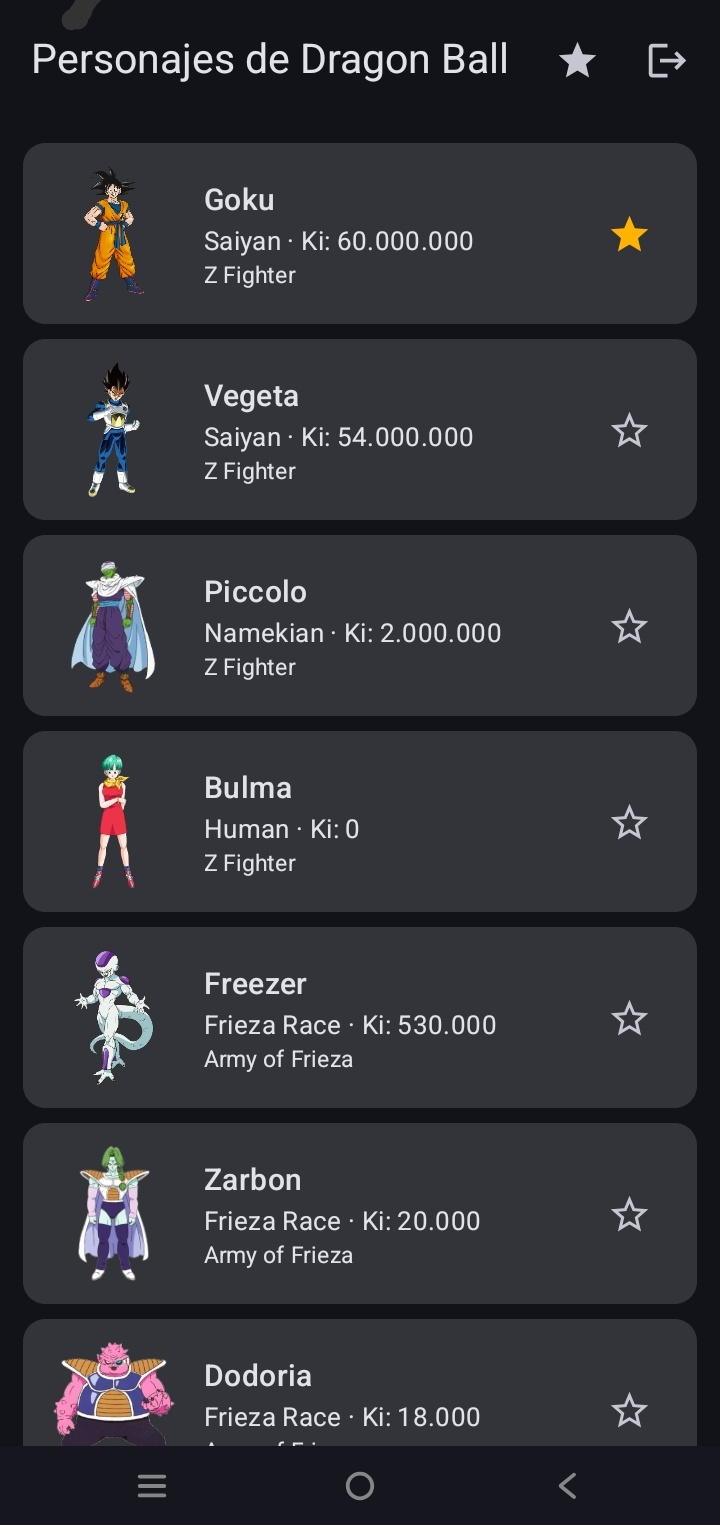
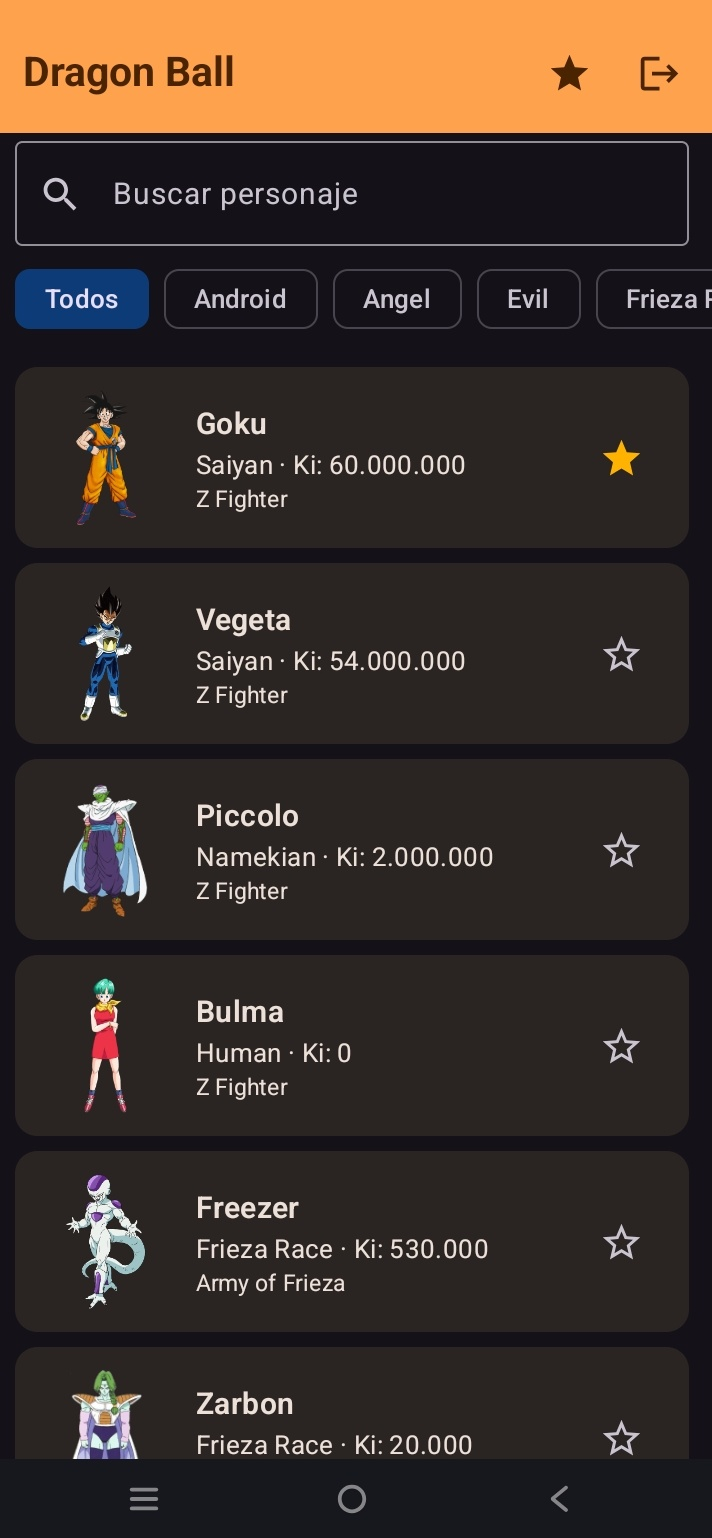
docs: agrega PROMPTS.md con las consultas a la IA y actualiza el README con las mejoras de la Fase 2

diff --git a/PROMPTS.md b/PROMPTS.md
@@ -1,0 +1,71 @@
+# PROMPTS.md
+
+Registro de las consultas hechas a la IA durante la **Fase 2** del laboratorio (rama `mejora-ia`).
+
+- **Proyecto:** Dragon Ball – Catálogo de personajes
+- **Integrante:** José Rojas Condor
+- **Herramienta usada:** Claude (Anthropic)
+
+---
+
+## Consulta 1
+
+- **Fecha:** 08/11/2026
+- **Herramienta:** Claude
+- **Prompt:** "Te paso capturas de todas las pantallas de mi app. En el login casi no se nota lo que escribo, la letra sale muy clara. ¿Qué otros problemas visuales ves?"
+- **Qué respondió (resumen):** Explicó que el login no tenía un `Surface`, entonces con el celular en modo oscuro el texto salía claro sobre el fondo blanco de la ventana. Además encontró que el título de la lista se partía en dos líneas cuando el admin tiene tres íconos y que las tarjetas del panel Admin tenían distinta altura.
+- **Qué usamos / qué cambiamos y por qué:** Envolví el login en un `Surface` para que use el fondo del tema, acorté el título a "Dragon Ball" y usé `IntrinsicSize.Min` para que las dos tarjetas del panel tengan la misma altura. No había notado los dos últimos problemas porque solo probaba con el usuario normal.
+- **Qué aprendimos:** Que en Compose el texto toma su color del tema, pero si la pantalla no pinta su propio fondo se ve el de la ventana. Por eso conviene que cada pantalla tenga un `Scaffold` o un `Surface`.
+
+## Consulta 2
+
+- **Fecha:** 08/11/2026
+- **Herramienta:** Claude
+- **Prompt:** "En la barra de arriba del celular sale una mancha gris cuando llega la notificación, ¿por qué pasa?"
+- **Qué respondió (resumen):** El ícono pequeño de una notificación tiene que ser de un solo color y con fondo transparente. Yo estaba usando el ícono de la app, que tiene colores, y Android lo pinta como una mancha. Propuso crear un vector de una campana.
+- **Qué usamos / qué cambiamos y por qué:** Agregué `res/drawable/ic_notificacion.xml` (una campana blanca) y lo puse en `setSmallIcon` del `NotificadorAndroid`.
+- **Qué aprendimos:** Que Android solo usa la forma (el canal alfa) del ícono de la barra de estado, por eso no sirve cualquier imagen.
+
+## Consulta 3
+
+- **Fecha:** 09/11/2026
+- **Herramienta:** Claude
+- **Prompt:** "Quiero agregar un buscador por nombre en la lista sin romper que Room sea la fuente de verdad. ¿Dónde debería ir la lógica?"
+- **Qué respondió (resumen):** Recomendó guardar el texto de búsqueda en el `ListaViewModel` como un `StateFlow` y filtrar ahí la lista que llega de Room, en vez de hacer una consulta nueva o filtrar en la pantalla. También sugirió no filtrar mientras el estado es Cargando o Error para no tapar esos mensajes.
+- **Qué usamos / qué cambiamos y por qué:** Agregué `busqueda`, `buscar()` y `mostrarFiltrada()` al ViewModel y un `OutlinedTextField` con lupa y botón para borrar en la pantalla. La pantalla solo llama a `viewModel.buscar(texto)`.
+- **Qué aprendimos:** Que si el texto vive en el ViewModel no se pierde al girar la pantalla, y que el buscador funciona sin internet porque busca en lo que ya está guardado.
+
+## Consulta 4
+
+- **Fecha:** 09/11/2026
+- **Herramienta:** Claude
+- **Prompt:** "Ahora quiero filtrar por raza con chips y que se pueda combinar con el buscador."
+- **Qué respondió (resumen):** Propuso sacar la lista de razas de los mismos personajes guardados (sin repetir y ordenadas), guardar la raza elegida en el ViewModel y aplicar los dos filtros juntos en `mostrarFiltrada()`. Para la pantalla sugirió una fila de `FilterChip` dentro de un `LazyRow`.
+- **Qué usamos / qué cambiamos y por qué:** Lo implementé así y agregué el chip "Todos" para quitar el filtro. Si el filtro no encuentra nada, la pantalla muestra "No se encontraron personajes con ese filtro".
+- **Qué aprendimos:** Que sacar las razas de los datos es mejor que escribirlas a mano, porque si la API agrega una raza nueva aparece sola.
+
+## Consulta 5
+
+- **Fecha:** 09/11/2026
+- **Herramienta:** Claude
+- **Prompt:** "¿Cómo hago las 3 pruebas unitarias del ListaViewModel con un repositorio falso como pide el laboratorio?"
+- **Qué respondió (resumen):** Explicó que como `ItemRepository` y `Notificador` son interfaces, se pueden reemplazar por clases falsas que no usan internet ni el celular. Propuso probar los tres caminos de `refrescar()`: con internet, sin internet sin datos y sin internet con datos guardados. También indicó que hay que cambiar `Dispatchers.Main` por un `UnconfinedTestDispatcher`, porque en las pruebas no existe el hilo principal de Android.
+- **Qué usamos / qué cambiamos y por qué:** Creé `RepositorioFalso`, `NotificadorFalso` y `ListaViewModelTest` con las tres pruebas. Las ejecuté con `gradlew testDebugUnitTest` y pasaron las tres (100%).
+- **Qué aprendimos:** Recién entendí para qué sirve que el Repository sea una interface: el ViewModel no sabe si le pasan el real o el falso, y así se puede probar sin depender de internet.
+
+## Consulta 6
+
+- **Fecha:** 09/11/2026
+- **Herramienta:** Claude
+- **Prompt:** "Quiero darle un mejor estilo visual a la app, con colores de Dragon Ball y los títulos más marcados."
+- **Qué respondió (resumen):** Notó que el tema de la plantilla usaba colores dinámicos (`dynamicColor`), que toman los colores del fondo de pantalla del celular. Propuso quitarlos y definir una paleta propia en `Color.kt` y `Theme.kt`, poner los títulos en negrita en `Type.kt` y darle a la barra superior el color principal.
+- **Qué usamos / qué cambiamos y por qué:** Definí una paleta naranja, azul y amarillo para modo claro y oscuro, puse los títulos en negrita y creé `coloresBarra()` en `components/BarraSuperior.kt` para no repetir los colores en las cuatro pantallas.
+- **Qué aprendimos:** Que cambiando solo el tema cambia toda la app, porque los componentes de Material 3 toman los colores de `MaterialTheme`. No tuve que tocar cada botón.
+
+---
+
+## Reflexión
+
+La IA me ayudó sobre todo a encontrar problemas que yo no veía, como el login en modo oscuro o el ícono de la notificación, y a entender el porqué de cada cambio. No copié las respuestas sin más: probé cada cambio en mi celular antes de hacer el commit y en algunos casos ajusté cosas, como el texto de los mensajes o qué filtrar.
+
+Lo que más me sirvió fue la parte de las pruebas, porque me hizo entender en la práctica por qué el laboratorio pide que el Repository y el Notificador sean interfaces. También aprendí que hay que revisar lo que propone la IA: por ejemplo, el buscador al principio tapaba el mensaje de error y hubo que agregar una condición para que solo filtre cuando ya hay una lista.

diff --git a/README.md b/README.md
@@ -40,6 +40,16 @@ La lista viene envuelta en `{ "items": [...] }` y el detalle agrega el planeta d
 - **Notificación local** «Se guardaron N elementos» al terminar de sincronizar, con canal y permiso `POST_NOTIFICATIONS`. Al tocarla se abre la app.
 - **Sesión** que se mantiene al reabrir la app y botón Cerrar sesión.
 
+### Mejoras de la Fase 2 (rama `mejora-ia`)
+
+- **Buscador** de personajes por nombre, que funciona también sin internet.
+- **Filtro por raza** con chips, combinable con el buscador.
+- **Estilo visual propio**: paleta de colores de Dragon Ball, barra superior naranja y títulos en negrita.
+- **Login legible en modo oscuro**, título de la lista en una línea y tarjetas del panel Admin parejas.
+- **Ícono de campana** para la notificación.
+- **3 pruebas unitarias** del `ListaViewModel` con un repositorio y un notificador falsos.
+- Consultas a la IA documentadas en [`PROMPTS.md`](PROMPTS.md).
+
 ---
 
 ## Arquitectura (MVVM)
@@ -79,6 +89,22 @@ app/src/main/java/com/rojas/dragonball/
 
 Kotlin · Jetpack Compose · Material 3 · Navigation Compose · Retrofit + Kotlinx Serialization · OkHttp ·
 Room (KSP) · Firebase Authentication · Cloud Firestore · Coil · Coroutines + StateFlow
+
+---
+
+## Pruebas unitarias
+
+Están en `app/src/test/java/com/rojas/dragonball/ui/lista/` y se ejecutan con:
+
+```
+.\gradlew :app:testDebugUnitTest
+```
+
+| Prueba | Qué revisa |
+|---|---|
+| `conInternet_muestraLaListaYNotifica` | Con internet se muestra la lista y se notifica «Se guardaron N elementos» |
+| `sinInternetYSinDatosGuardados_muestraError` | Sin internet y sin datos aparece el error con Reintentar |
+| `sinInternetConDatosGuardados_muestraLoGuardadoConAviso` | Sin internet con datos guardados se muestra la lista con el aviso |
 
 ---
 
@@ -123,7 +149,7 @@ service cloud.firestore {
 
 ## Capturas
 
-| Login | Lista (usuario) | Lista (admin) |
+| Login | Lista con buscador y filtros | Lista (admin) |
 |---|---|---|
 | <img src="capturas/01_login.png" width="230"> | <img src="capturas/02_lista_usuario.png" width="230"> | <img src="capturas/03_lista_admin.png" width="230"> |
 
@@ -131,9 +157,9 @@ service cloud.firestore {
 |---|---|---|
 | <img src="capturas/04_detalle.png" width="230"> | <img src="capturas/05_favoritos.png" width="230"> | <img src="capturas/06_panel_admin.png" width="230"> |
 
-| Notificación |
-|---|
-| <img src="capturas/07_notificacion.png" width="300"> |
+| Notificación | Ícono en la barra de estado |
+|---|---|
+| <img src="capturas/07_notificacion.png" width="300"> | <img src="capturas/08_icono_campana.png" width="300"> |
 
 ---
 
